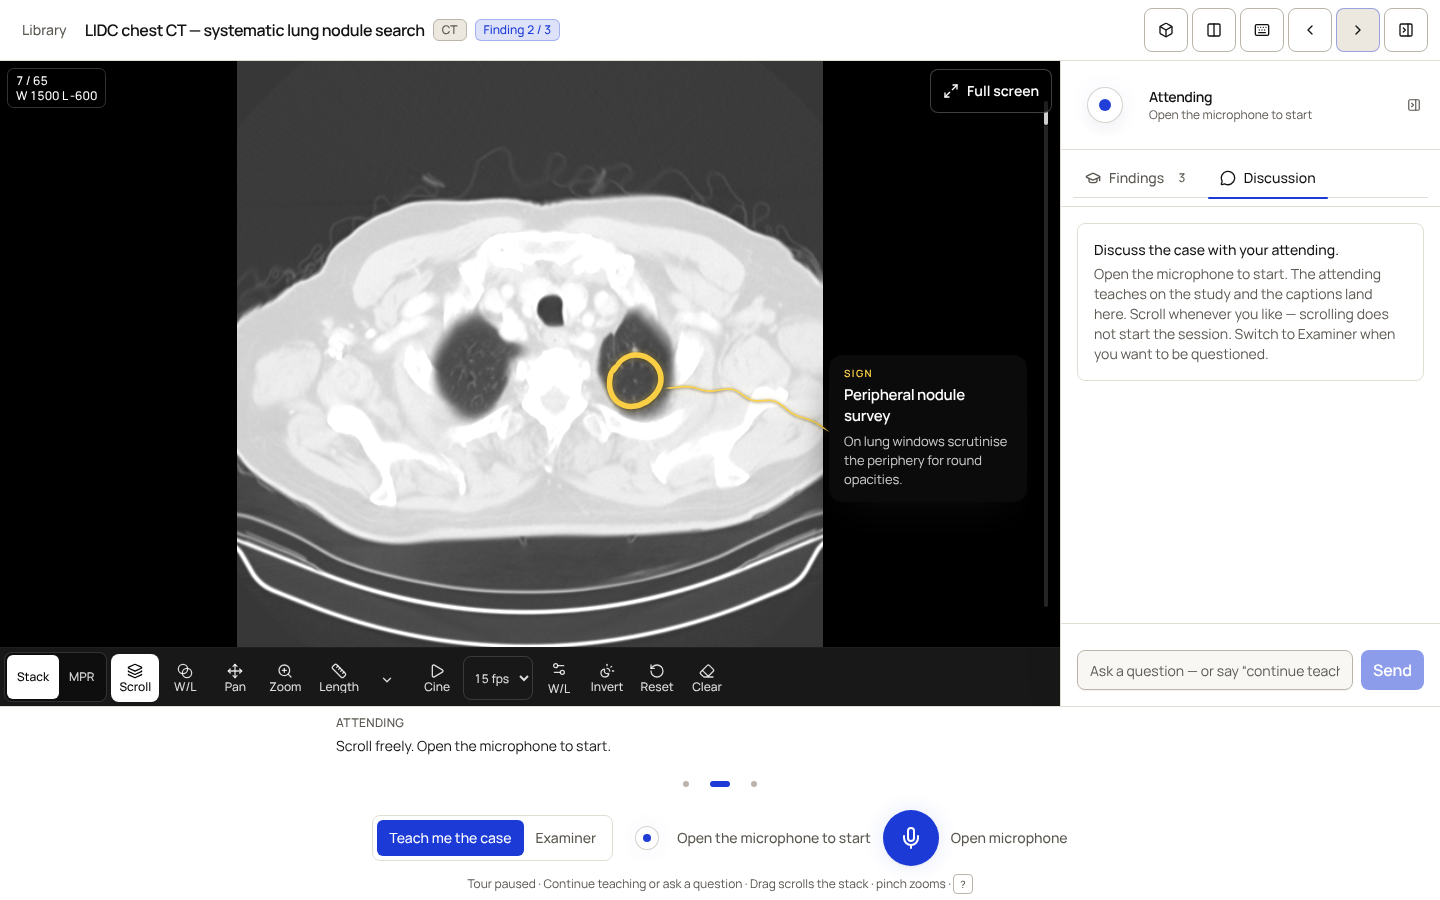
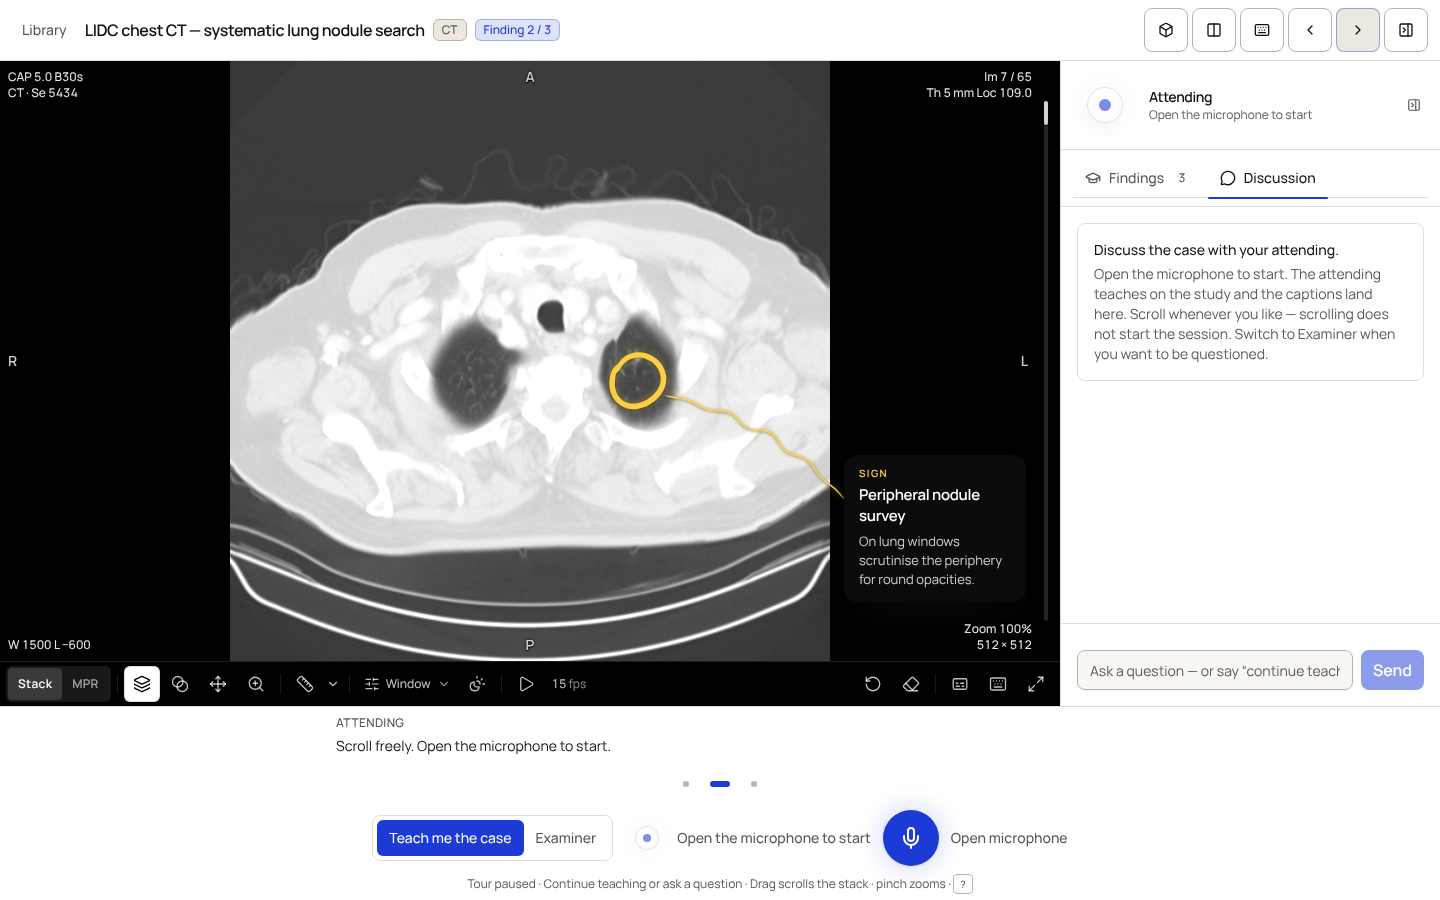
Seat tutor cards clear of the DICOM overlay and keep the toolbar neutral.
After merging #78 and #79: corner text and orientation letters are marked as
viewer chrome so a card never covers them, and the new toolbar's selected
state is white rather than accent blue over the image. The e2e now checks
the card against every chrome element.

Claude-Session: https://claude.ai/code/session_01RieAufcSAuUBWG5gk2qR6z

diff --git a/components/viewer/ViewportOverlay.tsx b/components/viewer/ViewportOverlay.tsx
@@ -17,7 +17,8 @@ const type =
 function Lines({ lines, className }: { lines: string[]; className: string }) {
   if (lines.length === 0) return null;
   return (
-    <div className={cn(type, className)}>
+    // data-imaging-chrome: tutor cards are seated clear of corner text.
+    <div data-imaging-chrome className={cn(type, className)}>
       {lines.map((line, i) => (
         // Secondary lines drop first on a phone-width pane.
         <p key={i} className={cn("whitespace-nowrap", i > 0 && "max-sm:hidden")}>
@@ -53,17 +54,18 @@ export function ViewportOverlay({
       <Lines lines={corners.bottomRight} className={cn(right, "bottom-2 text-right")} />
       {markers ? (
         <>
-          <span aria-hidden="true" className={cn(marker, "left-1/2 top-1.5 -translate-x-1/2")}>
+          <span aria-hidden="true" data-imaging-chrome className={cn(marker, "left-1/2 top-1.5 -translate-x-1/2")}>
             {markers.top}
           </span>
-          <span aria-hidden="true" className={cn(marker, "bottom-1.5 left-1/2 -translate-x-1/2")}>
+          <span aria-hidden="true" data-imaging-chrome className={cn(marker, "bottom-1.5 left-1/2 -translate-x-1/2")}>
             {markers.bottom}
           </span>
-          <span aria-hidden="true" className={cn(marker, "imaging-readout left-2 top-1/2 -translate-y-1/2")}>
+          <span aria-hidden="true" data-imaging-chrome className={cn(marker, "imaging-readout left-2 top-1/2 -translate-y-1/2")}>
             {markers.left}
           </span>
           <span
             aria-hidden="true"
+            data-imaging-chrome
             className={cn(marker, scrollbar ? "right-8" : "right-2", "top-1/2 -translate-y-1/2")}
           >
             {markers.right}

diff --git a/e2e/sketch-overlay.spec.ts b/e2e/sketch-overlay.spec.ts
@@ -38,6 +38,11 @@ test("desktop: one ring on the nodule, a solid card in black space, clear of the
   expect(overlaps(card, ring)).toBe(false);
   expect(overlaps(card, toolbar)).toBe(false);
   expect(overlaps(card, scrollbar)).toBe(false);
+  // Corner text and orientation letters stay readable.
+  for (const chrome of await page.locator("[data-imaging-chrome]").all()) {
+    const box = await chrome.boundingBox();
+    if (box && box.width > 0) expect(overlaps(card, box)).toBe(false);
+  }
   // Exactly one stroke: no unrequested arrow next to the ring.
   await expect(page.getByTestId("sketch-arrow")).toHaveCount(0);
   await expect(page.getByTestId("sketch-connector")).toHaveCount(1);
